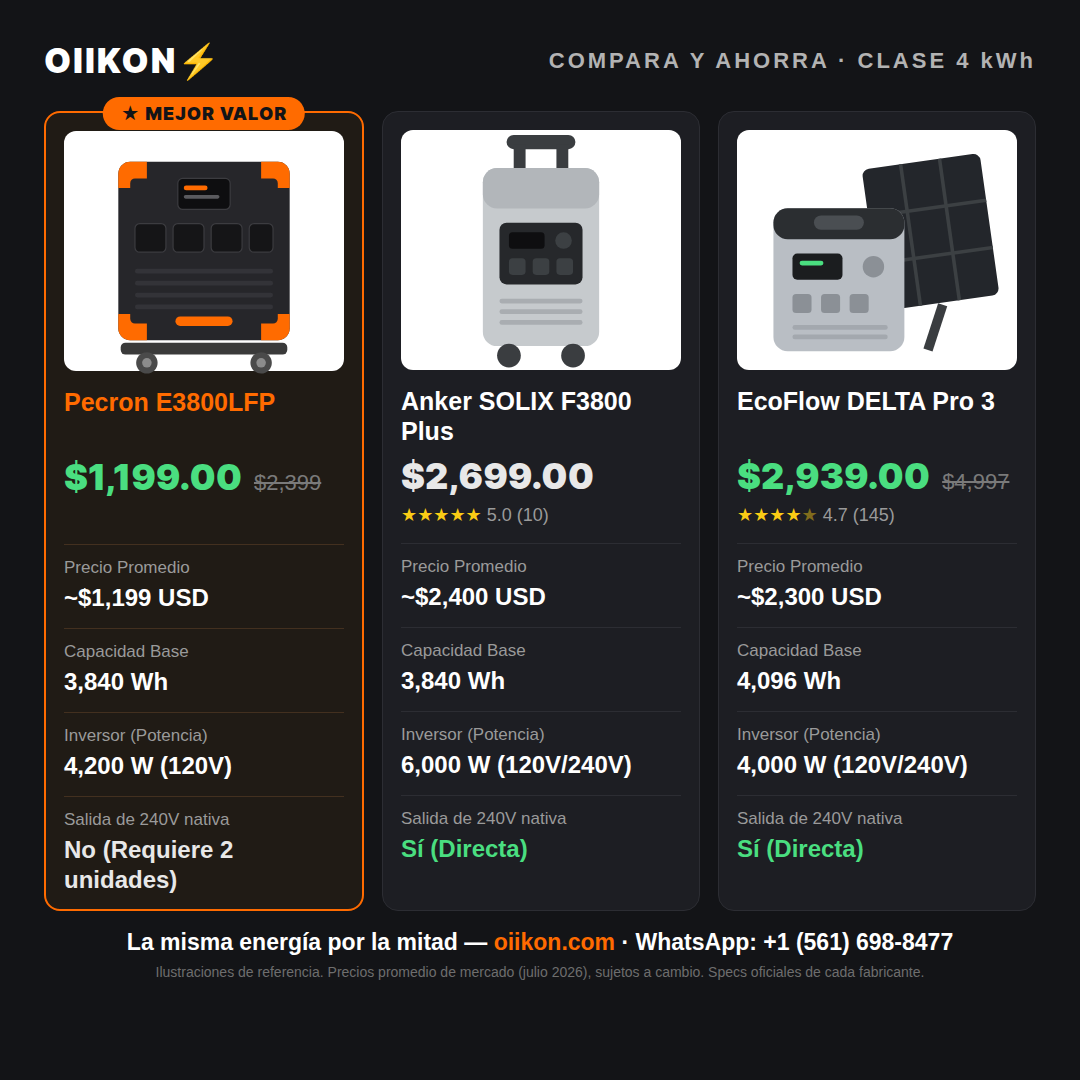
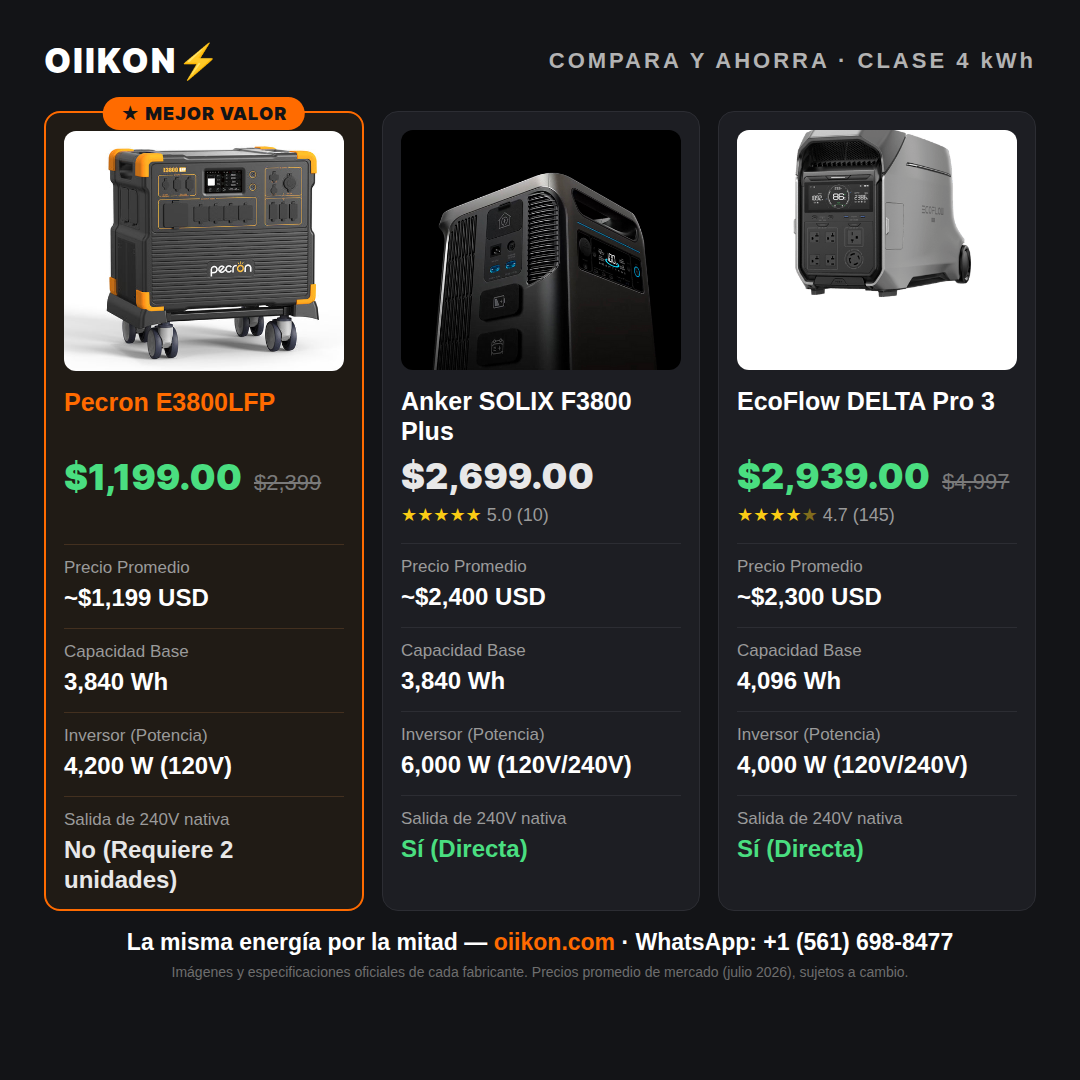
feat(marketing): tabla comparativa con fotos oficiales de producto
Reemplaza las ilustraciones SVG por las fotos oficiales (Pecron E3800LFP
de pecron.com, Anker F3800 Plus og:image de ankersolix.com, EcoFlow
DELTA Pro 3 de us.ecoflow.com), obtenidas vía Shopify CDN.

Claude-Session: https://claude.ai/code/session_01EcRMEtf5hybpSELU6rjuhS

diff --git a/marketing/facebook/2026-07-05-e3800-comparativa/tabla.html b/marketing/facebook/2026-07-05-e3800-comparativa/tabla.html
@@ -34,8 +34,11 @@
   }
   .photo {
     background: #FFF; border-radius: 12px; height: 240px;
-    display: flex; align-items: center; justify-content: center; margin-bottom: 16px;
+    margin-bottom: 16px; background-repeat: no-repeat;
   }
+  .ph-pecron  { background-image: url('prod-pecron.jpg');  background-size: 115%; background-position: 35% 88%; }
+  .ph-anker   { background-image: url('prod-anker.png');   background-size: cover; background-position: center 40%; }
+  .ph-ecoflow { background-image: url('prod-ecoflow.png'); background-size: 125%; background-position: 45% 96%; }
   .pname { font-size: 25px; font-weight: 700; line-height: 1.2; min-height: 62px; }
   .hero .pname { color: #FF6B00; }
   .prices { margin-top: 6px; display: flex; align-items: baseline; gap: 12px; }
@@ -65,37 +68,7 @@
     <!-- PECRON -->
     <div class="col hero">
       <div class="ribbon">★ MEJOR VALOR</div>
-      <div class="photo">
-        <svg width="238" height="250" viewBox="0 0 200 210">
-          <!-- cart -->
-          <rect x="30" y="182" width="140" height="10" rx="4" fill="#3A3A3A"/>
-          <circle cx="52" cy="199" r="9" fill="#4A4A4A"/><circle cx="148" cy="199" r="9" fill="#4A4A4A"/>
-          <circle cx="52" cy="199" r="4" fill="#8C8C8C"/><circle cx="148" cy="199" r="4" fill="#8C8C8C"/>
-          <!-- body -->
-          <rect x="28" y="30" width="144" height="150" rx="10" fill="#26262A"/>
-          <!-- orange corner guards -->
-          <path d="M28 52 v-12 a10 10 0 0 1 10-10 h14 v14 h-10 a4 4 0 0 0-4 4 v4 z" fill="#FF6B00"/>
-          <path d="M172 52 v-12 a10 10 0 0 0-10-10 h-14 v14 h10 a4 4 0 0 1 4 4 v4 z" fill="#FF6B00"/>
-          <path d="M28 158 v12 a10 10 0 0 0 10 10 h14 v-14 h-10 a4 4 0 0 1-4-4 v-4 z" fill="#FF6B00"/>
-          <path d="M172 158 v12 a10 10 0 0 1-10 10 h-14 v-14 h10 a4 4 0 0 0 4-4 v-4 z" fill="#FF6B00"/>
-          <!-- screen -->
-          <rect x="78" y="44" width="44" height="26" rx="4" fill="#0E0E10" stroke="#3C3C40"/>
-          <rect x="83" y="50" width="20" height="4" rx="2" fill="#FF6B00"/>
-          <rect x="83" y="58" width="30" height="3" rx="1.5" fill="#5A5A5E"/>
-          <!-- outlets -->
-          <rect x="42" y="82" width="26" height="24" rx="4" fill="#151517" stroke="#3C3C40"/>
-          <rect x="74" y="82" width="26" height="24" rx="4" fill="#151517" stroke="#3C3C40"/>
-          <rect x="106" y="82" width="26" height="24" rx="4" fill="#151517" stroke="#3C3C40"/>
-          <rect x="138" y="82" width="20" height="24" rx="4" fill="#151517" stroke="#3C3C40"/>
-          <!-- vents -->
-          <rect x="42" y="120" width="116" height="4" rx="2" fill="#333338"/>
-          <rect x="42" y="130" width="116" height="4" rx="2" fill="#333338"/>
-          <rect x="42" y="140" width="116" height="4" rx="2" fill="#333338"/>
-          <rect x="42" y="150" width="116" height="4" rx="2" fill="#333338"/>
-          <!-- logo -->
-          <rect x="76" y="160" width="48" height="8" rx="4" fill="#FF6B00"/>
-        </svg>
-      </div>
+      <div class="photo ph-pecron"></div>
       <div class="pname">Pecron E3800LFP</div>
       <div class="prices"><div class="price">$1,199.00</div><div class="was">$2,399</div></div>
       <div class="stars"></div>
@@ -107,30 +80,7 @@
 
     <!-- ANKER -->
     <div class="col">
-      <div class="photo">
-        <svg width="178" height="250" viewBox="0 0 150 210">
-          <!-- handle -->
-          <rect x="46" y="8" width="58" height="12" rx="6" fill="#3A3D40"/>
-          <rect x="52" y="16" width="10" height="24" fill="#3A3D40"/>
-          <rect x="88" y="16" width="10" height="24" fill="#3A3D40"/>
-          <!-- body -->
-          <rect x="26" y="36" width="98" height="150" rx="12" fill="#C6CACD"/>
-          <rect x="26" y="36" width="98" height="34" rx="12" fill="#B2B6BA"/>
-          <!-- front panel -->
-          <rect x="40" y="82" width="70" height="52" rx="6" fill="#26282B"/>
-          <rect x="48" y="90" width="30" height="14" rx="3" fill="#0E0E10"/>
-          <circle cx="94" cy="97" r="7" fill="#3C4043"/>
-          <rect x="48" y="112" width="14" height="14" rx="3" fill="#3C4043"/>
-          <rect x="68" y="112" width="14" height="14" rx="3" fill="#3C4043"/>
-          <rect x="88" y="112" width="14" height="14" rx="3" fill="#3C4043"/>
-          <!-- vents -->
-          <rect x="40" y="146" width="70" height="4" rx="2" fill="#A9ADB1"/>
-          <rect x="40" y="155" width="70" height="4" rx="2" fill="#A9ADB1"/>
-          <rect x="40" y="164" width="70" height="4" rx="2" fill="#A9ADB1"/>
-          <!-- wheels -->
-          <circle cx="48" cy="194" r="10" fill="#3A3D40"/><circle cx="102" cy="194" r="10" fill="#3A3D40"/>
-        </svg>
-      </div>
+      <div class="photo ph-anker"></div>
       <div class="pname">Anker SOLIX F3800 Plus</div>
       <div class="prices"><div class="price" style="color:#E8E8E8">$2,699.00</div></div>
       <div class="stars">★★★★★ <span class="n">5.0 (10)</span></div>
@@ -142,32 +92,7 @@
 
     <!-- ECOFLOW -->
     <div class="col">
-      <div class="photo">
-        <svg width="250" height="250" viewBox="0 0 210 210">
-          <!-- solar panel behind -->
-          <g transform="rotate(-8 150 90)">
-            <rect x="100" y="30" width="100" height="120" rx="6" fill="#23262B"/>
-            <line x1="100" y1="70" x2="200" y2="70" stroke="#3C4043" stroke-width="3"/>
-            <line x1="100" y1="110" x2="200" y2="110" stroke="#3C4043" stroke-width="3"/>
-            <line x1="133" y1="30" x2="133" y2="150" stroke="#3C4043" stroke-width="3"/>
-            <line x1="166" y1="30" x2="166" y2="150" stroke="#3C4043" stroke-width="3"/>
-          </g>
-          <rect x="150" y="150" width="8" height="40" transform="rotate(18 154 170)" fill="#3A3D40"/>
-          <!-- station -->
-          <rect x="18" y="70" width="110" height="120" rx="12" fill="#B9BEC4"/>
-          <rect x="18" y="70" width="110" height="26" rx="12" fill="#2B2E31"/>
-          <rect x="52" y="76" width="42" height="12" rx="6" fill="#4A4E52"/>
-          <!-- screen + ports -->
-          <rect x="34" y="108" width="42" height="22" rx="4" fill="#1B1D1F"/>
-          <rect x="40" y="114" width="20" height="4" rx="2" fill="#4ADE80"/>
-          <circle cx="102" cy="119" r="9" fill="#8B9096"/>
-          <rect x="34" y="142" width="16" height="16" rx="3" fill="#8B9096"/>
-          <rect x="58" y="142" width="16" height="16" rx="3" fill="#8B9096"/>
-          <rect x="82" y="142" width="16" height="16" rx="3" fill="#8B9096"/>
-          <rect x="34" y="168" width="80" height="4" rx="2" fill="#A3A8AE"/>
-          <rect x="34" y="176" width="80" height="4" rx="2" fill="#A3A8AE"/>
-        </svg>
-      </div>
+      <div class="photo ph-ecoflow"></div>
       <div class="pname">EcoFlow DELTA Pro 3</div>
       <div class="prices"><div class="price">$2,939.00</div><div class="was">$4,997</div></div>
       <div class="stars">★★★★<span style="opacity:.45">★</span> <span class="n">4.7 (145)</span></div>
@@ -180,7 +105,7 @@
 
   <div class="footer">
     <div class="cta">La misma energía por la mitad — <span class="site">oiikon.com</span> · WhatsApp: +1 (561) 698-8477</div>
-    <div class="fine">Ilustraciones de referencia. Precios promedio de mercado (julio 2026), sujetos a cambio. Specs oficiales de cada fabricante.</div>
+    <div class="fine">Imágenes y especificaciones oficiales de cada fabricante. Precios promedio de mercado (julio 2026), sujetos a cambio.</div>
   </div>
 </body>
 </html>
